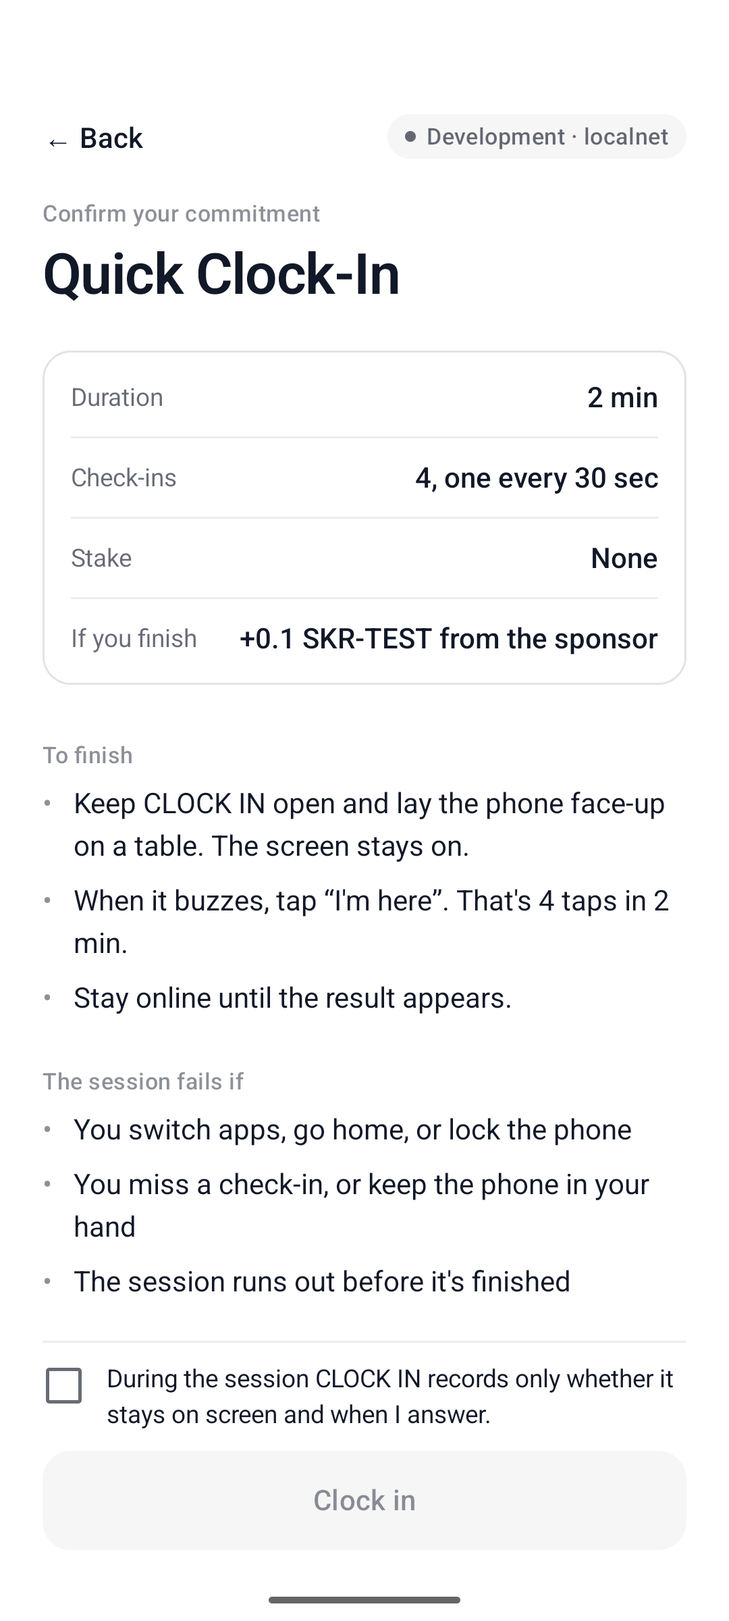
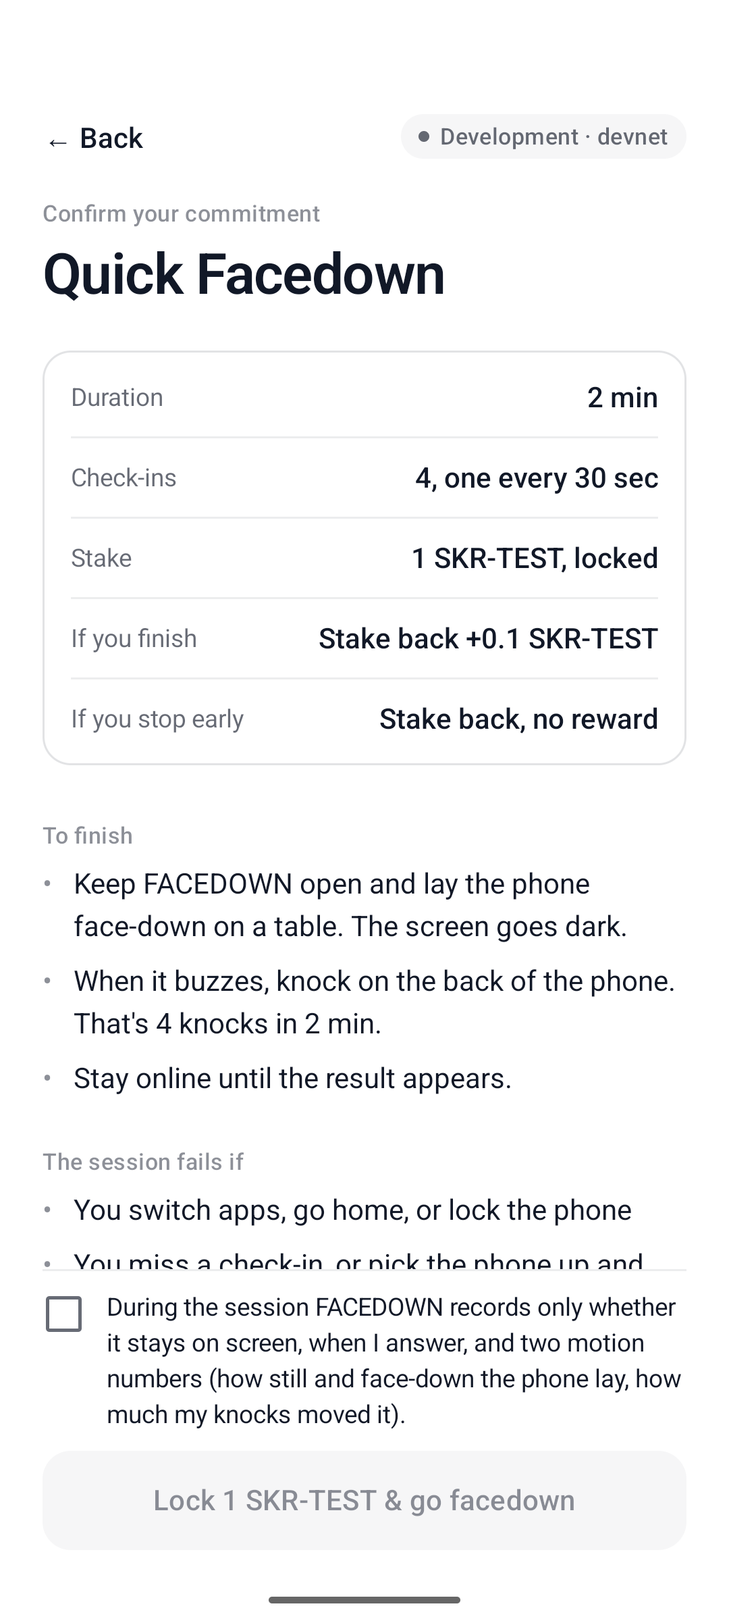
docs: FACEDOWN README and demo script; No-Loss confirm screen fix; new screenshots
- README: Seeker-proves-presence positioning, reviewer-free vs commitment apps, PRESENCE as the
  business, SKR sink (freeze burn), devnet proof for face-down, No-Loss refund and burn,
  roadmap (yield-funded No-Loss, ORE sponsor pools, Presence Model, Live Rooms) marked not built.
- Confirm screen: No-Loss no longer also shows the Free rows.

diff --git a/app/src/main/java/com/presence/ui/screens/MissionScreen.kt b/app/src/main/java/com/presence/ui/screens/MissionScreen.kt
@@ -66,7 +66,7 @@ fun MissionScreen(s: UiState, onBack: () -> Unit, onStart: () -> Unit) = Page {
             KeyValue("Duration", minutesLabel(m.durationSeconds))
             Hairline()
             KeyValue("Check-ins", "${m.requiredCheckpoints}, one every ${minutesLabel(m.checkpointIntervalSeconds)}")
-            if (!staked && m.reward.token > 0) {
+            if (!staked && !noLoss && m.reward.token > 0) {
                 Hairline()
                 KeyValue("Stake", "None")
                 Hairline()

diff --git a/backend/attest/evidence.py b/backend/attest/evidence.py
@@ -6,8 +6,8 @@ payload_i    = "{index}|{timestamp_ms}|{elapsed_ms}|{foreground 0/1}|{interactio
 root         = SHA256("PRESENCE/root/v1" | last_checkpoint_hash | witness_root)
 
 response_ms is how long the presence check was on screen before it was answered (-1 = not answered).
-still_pct is the share of the window the phone lay still (accelerometer), taps excluded; -1 = no sensor.
-touch_motion is the largest physical jolt (mm/s^2) the accelerometer felt at an "I'm here" tap; -1 = no
+still_pct is the share of the window the phone lay still and face-down (accelerometer), check-ins excluded; -1 = no sensor.
+touch_motion is the largest physical jolt (mm/s^2) of a check-in (a knock on the back, or a finger tap); -1 = no
 tap or no sensor. A finger moves the phone; an injected tap (script, AI agent) doesn't.
 
 `|` is the literal byte 0x7C; hashes are raw 32-byte digests. witness_root is 32 zero

diff --git a/README.md b/README.md
@@ -1,149 +1,156 @@
-# CLOCK IN, built on PRESENCE
+# FACEDOWN, built on PRESENCE
 
-**Focus you can prove, and that no script or AI agent can fake.**
+**Put it down. Prove it. Get paid.**
 
-Every Seeker owner knows the loop: you pick up the phone to do one thing and lose twenty minutes. CLOCK IN is a
-daily appointment with your own attention:
+Seeker is the only phone that can prove you were present: a hardware-bound identity (Seeker Genesis Token), a
+wallet in the OS, and sensors that can tell a person from a script. FACEDOWN uses that to make phone-free time
+something you can commit to, verify and get paid for, with no referee.
 
-1. **Book it and choose it.** Pick a daily time (the phone reminds you), a length (2 or 25 min), and **Free** (a
-   sponsor pays a small reward, nothing of yours at risk) or **Stake** SKR.
-2. **Put the phone down** face-up on a table. It buzzes once per window at an unpredictable moment. Tap *I'm here*.
-   The accelerometer feels that a **finger** touched the phone and that it **lay still** between check-ins.
-3. **Finish:** the session is attested on Solana; a staked stake comes back **plus up to 20%**, in the same
-   transaction. **Quit, switch apps, miss a check, or let a script tap for you:** not verified; a stake goes to the pool.
+1. **Book it.** Pick a daily time (the phone reminds you) and a length: 2 min, 25 min, or a **Facedown Hour** (60 min).
+2. **Choose what's at stake.** **Free** (a sponsor pays a small reward), **No-Loss** (lock SKR; you get it back
+   either way, only finishers earn) or **Stake** (finish for stake + up to 20% from the pool; quit and it feeds the pool).
+3. **Turn the phone face-down.** The screen goes black. It buzzes a few times at unpredictable moments; **knock on
+   the back** to answer. No pickup, no lit screen. The accelerometer proves the phone lay face-down and still, and
+   that each answer was a physical knock, not input injected by a script or an AI agent.
+4. **Finish.** The session is attested on Solana and paid in the same transaction. A streak builds; a **streak
+   freeze** (paid in SKR, half burned on-chain) covers a missed day. Today shows how many people are facedown right now.
 
 <p>
-<img src="screenshots/home.png" width="19%" alt="Today: length, Free or Stake, sponsor pool">
-<img src="screenshots/mission.png" width="19%" alt="Confirm: terms before any wallet prompt">
-<img src="screenshots/active.png" width="19%" alt="Active session: timer and a check-in when one is due">
-<img src="screenshots/receipt.png" width="19%" alt="Trust Receipt: stake back + bonus, on-chain QR">
-<img src="screenshots/rejected.png" width="19%" alt="Rejected: taps injected by a script, caught by the motion sensor">
+<img src="screenshots/home.png" width="19%" alt="Today: 2/25/60 min, Free | No-Loss | Stake">
+<img src="screenshots/mission.png" width="19%" alt="Confirm: No-Loss terms before any wallet prompt">
+<img src="screenshots/facedown.png" width="19%" alt="Face-down: the screen goes black while the session runs">
+<img src="screenshots/receipt.png" width="19%" alt="Receipt: human touch and phone-down verified, recorded on Solana">
+<img src="screenshots/progress.png" width="19%" alt="Progress: streak freeze bought, half burned">
 </p>
 
-**Demo video:** [`demo/clock-in-demo-2x.mp4`](demo/clock-in-demo-2x.mp4) (3 min at 2× speed): a staked session that
-finishes (stake back + bonus), then one that leaves the app (stake forfeited to the pool). Recorded on the emulator,
-with the app and wallet driven by `scripts/device_e2e.py`.
+*Screenshots: Android emulator against **devnet** with Solana Mobile's test wallet, **development mode** (Seeker
+eligibility bypassed and labeled). Face-down and knocks were driven through the emulator's virtual accelerometer.
+Rewards are SKR-TEST, a valueless test mint with SKR's 6 decimals.*
 
-*Screenshots: Android emulator with Solana Mobile's test wallet, local validator, **development mode** (Seeker
-eligibility bypassed and labeled). Rewards are SKR-TEST, a valueless test mint with SKR's 6 decimals.*
+## Why this, why now
+
+**The pain is real and people pay to fix it.** Blockers are too easy to undo in the moment, and they feel like
+deprivation. Commitment apps exist and charge for it, but they need a human or AI reviewer to check photo proof,
+and the money you forfeit goes to the company. **FACEDOWN needs neither: the phone proves it, and forfeits go to the
+people who finished** (or, in No-Loss, nothing is forfeited at all).
+
+**In a world of AI agents, proof that a human was here is the scarce thing.** Agents can now drive a phone (tap,
+type, approve) and farm anything that only checks taps. A motion signal separates human from agent-driven taps
+([arXiv 2609.02154](https://arxiv.org/abs/2609.02154)); FACEDOWN puts that signal inside a signed, hash-chained,
+on-chain process record. That's an anti-farming primitive, and Seeker is the phone that can carry it.
 
 ## Designed from the evidence
 
-Every product decision maps to a randomized trial or a paper, not a guess:
-
-| Finding | What CLOCK IN does |
+| Finding | What FACEDOWN does |
 |---|---|
-| Deposit programs were accepted by **13.7%** of people vs **90%** for reward programs; among people who'd accept either, deposits worked better (+13.2 pts). Halpern et al., [NEJM 2015](https://doi.org/10.1056/NEJMoa1414293), n = 2,538 | **Free first, stake later.** Sponsor-funded sessions are the default way in; staking is the upgrade for the committed. |
-| Appointments **more than doubled** uptake vs financial commitment devices, and most commitment-device takers lost their money. Derksen et al., [arXiv 2110.06876](https://arxiv.org/abs/2110.06876) | **Daily focus appointment** with a reminder; a missed appointment costs nothing. |
-| People who **chose their own** phone-reduction goal cut use by **26 min/day more** (73% larger) than people assigned one, same incentives. Sachdeva, Somasundaram & Sharma (IIM Udaipur, ISB), [Soc Sci Med 2026](https://doi.org/10.1016/j.socscimed.2026.119683) | You choose the length and whether to stake. |
-| A motion signal told **human from AI-agent** taps apart with 98.4% accuracy on a table. [arXiv 2609.02154](https://arxiv.org/abs/2609.02154); ZK motion humanness: zkSENSE, [arXiv 1911.07649](https://arxiv.org/abs/1911.07649) | **Physical evidence** in every checkpoint: each tap must move the phone, and the phone must lie still. |
-| Two weeks without mobile internet improved sustained attention and mental health; **91%** improved on at least one outcome. Castelo et al., [PNAS Nexus 2025](https://doi.org/10.1093/pnasnexus/pgaf017) | Why phone-down time is worth proving. |
-| Play-/move-to-earn economies collapse; in 9 of 12 NFT games traders lost money on average. [arXiv 2602.13882](https://arxiv.org/abs/2602.13882), [arXiv 2211.01000](https://arxiv.org/abs/2211.01000) | **No new token, no emissions.** Rewards come only from sponsors and forfeited stakes. |
+| Deposit programs were accepted by **13.7%** of people vs **90%** for reward programs; among people who'd accept either, deposits worked better (+13.2 pts). Halpern et al., [NEJM 2015](https://doi.org/10.1056/NEJMoa1414293), n = 2,538 | **Free first, No-Loss next, Stake for the committed.** |
+| Appointments **more than doubled** uptake vs financial commitment devices, and most commitment-device takers lost their money. Derksen et al., [arXiv 2110.06876](https://arxiv.org/abs/2110.06876) | **Daily facedown appointment** with a reminder; No-Loss so nobody has to lose money to commit. |
+| People who **chose their own** phone-reduction goal cut use by **26 min/day more** (73% larger) than people assigned one. Sachdeva, Somasundaram & Sharma (IIM Udaipur, ISB), [Soc Sci Med 2026](https://doi.org/10.1016/j.socscimed.2026.119683) | You choose the length and what's at stake. |
+| Two weeks without mobile internet improved sustained attention and mental health; **91%** improved on at least one outcome. Castelo et al., [PNAS Nexus 2025](https://doi.org/10.1093/pnasnexus/pgaf017) | Long stretches matter, so there is a **Facedown Hour**, not just a pomodoro. |
+| A motion signal told **human from AI-agent** taps apart with 98.4% accuracy on a table. [arXiv 2609.02154](https://arxiv.org/abs/2609.02154); zkSENSE, [arXiv 1911.07649](https://arxiv.org/abs/1911.07649) | **Knock check-ins + face-down stillness** in every checkpoint. |
+| Play-/move-to-earn economies collapse; in 9 of 12 NFT games traders lost money on average. [arXiv 2602.13882](https://arxiv.org/abs/2602.13882) | **No new token, no emissions.** Rewards come only from sponsors and forfeited stakes. |
 
-## Why nobody has done this before
+## What a cheater would try
 
-Focus apps run on a **local timer**. Anyone can fake one, so nobody can put money on them. Commitment contracts work
-(in a randomized trial, smokers offered a deposit contract were 3 points more likely to quit, effects lasting a year,
-[Giné, Karlan & Zinman](https://poverty-action.org/publication/put-your-money-where-your-butt)), but only when
-someone can check the outcome.
-
-**PRESENCE is that check, with no referee:**
-
-| What a cheater would try | Why it fails |
+| Attempt | Why it fails |
 |---|---|
 | Fake the timer / fast-forward | The **server** times the session from its own clock. Checkpoints that arrive early are rejected. |
-| Leave the app and come back | Every checkpoint records whether the session stayed in the foreground. One miss forfeits the stake. |
-| Script the taps | Checks appear at random moments; answer times that are instant or metronome-steady are flagged `AUTOMATION_DETECTED`. |
-| Let an AI phone agent tap for you | Injected taps don't move the phone. Each checkpoint carries the accelerometer jolt of the tap; production rejects taps no finger made (`AUTOMATION_DETECTED`). Reproduced on the emulator with adb-injected taps. |
+| Use the phone during the session | Leaving the app is recorded in every checkpoint; one miss fails the session. Picking the phone up breaks face-down stillness. |
+| Let a script or an AI phone agent answer | Answers are knocks felt by the accelerometer (or a finger tap's jolt). Injected input moves nothing: production rejects it (`AUTOMATION_DETECTED`). Reproduced on the emulator with adb-injected taps. |
 | Replay or forge evidence | Checkpoints form a hash chain signed by a per-session Android Keystore key bound into the wallet's sign-in. |
-| Farm the bonus pool with many wallets | One claim per **Seeker Genesis Token** per mission per day: a device, not a wallet. |
+| Farm sponsor pools with many wallets | One claim per **Seeker Genesis Token** per mission per day: a device, not a wallet. |
+| Swap the stake transaction in the wallet | ATTEST submits the stake only if it moves exactly what was issued; wallets may add priority fees, nothing else. |
 | Claim the payout twice | Payout and attestation are one transaction on a PDA that can be created once. |
 
-This builds on a security idea formalized in 2026: real-time human attention is a scarce resource that can't be
-parallelized, so time-bound, identity-bound challenges make sustaining *s* fake identities cost grow linearly with *s*
-([Human Challenge Oracle, arXiv 2601.03923](https://arxiv.org/abs/2601.03923)). Seeker adds what that paper's
-browser setting lacks: a hardware-bound identity per device.
-
-## Why it fits CLOCK IN
-
-- **Stickiness:** a daily appointment, streak, league and money at stake. Behavioural research suggests appointments
-  beat open-ended commitments ([arXiv 2110.06876](https://arxiv.org/abs/2110.06876)), so each session is a scheduled
-  clock-in rather than a vague goal.
-- **Seeker-native:** the Seeker Genesis Token makes the pool Sybil-resistant per device, and Mobile Wallet Adapter
-  signs the sign-in and the stake in one prompt.
-- **SKR as the core mechanic, not decoration:** you stake SKR, finishers earn SKR, quitters fund the pool, and
-  sponsors can top it up.
-
-## How SKR moves
+## SKR: a reason to hold and spend it, not just pass it through
 
 ```mermaid
 flowchart LR
-    U[You] -- stake 1 SKR, signed in MWA --> P[(Pool account)]
-    S[Sponsor] -- optional top-up --> P
-    U -- 2 min focus, 4 presence checks --> A[ATTEST engine]
+    U[You] -- Stake / No-Loss lock, signed in MWA --> P[(Pool account)]
+    S[Sponsor] -- funds Free + No-Loss rewards --> P
+    U -- face-down session, knock check-ins --> A[ATTEST engine]
     A -- verified: one tx --> C[(Solana)]
-    C -- DailyAttestation + stake back + 20% bonus --> U
-    Q[Quitter] -. forfeited stake .-> P
+    C -- attestation + stake back + reward --> U
+    Q[Quitter] -. Stake mode: forfeited .-> P
+    Q -. No-Loss: refunded .-> U
+    U -- streak freeze, 2 SKR --> F{{half burned, half revenue}}
 ```
 
-- **Stake.** ATTEST builds the transfer; the wallet signs it together with the sign-in message; ATTEST submits it
-  only if it moves exactly what was issued (same payer, accounts, mint and amount). Wallets may add priority-fee
-  instructions, as Solflare does; any other change is refused.
-- **Pay.** On success, `record_attestation` and a `TransferChecked` of *stake + bonus* from the pool go in **one
-  transaction**. The bonus is capped by what the pool holds.
-- **Forfeit.** Rejected sessions, and sessions abandoned until they expire, leave their stake in the pool.
-- **Real SKR** is `SKRbvo6Gf7GondiT3BbTfuRDPqLWei4j2Qy2NPGZhW3` (classic SPL Token, 6 decimals). We can't mint it,
-  which is why everything is transfer-based. Pointing `REWARD_MINT` at it is the mainnet switch.
+- **Stake** (opt-in): finishers get stake + up to 20% from the pool, capped by what the pool holds. If most people
+  finish, the pool runs low and the bonus shrinks; we show the live pool so nobody is promised a bonus that isn't there.
+- **No-Loss** (default for money): the stake is locked and returned either way (refund on failure; abandoned sessions
+  are refunded after they expire). Finishing earns the sponsor reward and keeps the streak. Nobody loses principal.
+- **Streak freeze** (a sink): 2 SKR, **half burned on-chain** (`BurnChecked`), half protocol revenue.
+- **Real SKR** is `SKRbvo6Gf7GondiT3BbTfuRDPqLWei4j2Qy2NPGZhW3` (6 decimals). Everything is transfer-based, so
+  pointing `REWARD_MINT` at it is the mainnet switch.
 
-**Devnet (live):**
+## Devnet proof (every row is a real transaction)
 
 | | |
 |---|---|
 | Program | `CFZsFPtvwo5KDenV3qgorroaRmT7NuYsfPnd4avFS2cT` |
 | SKR_TEST mint (6 decimals) | `GGqPuCZvbfmVuaUDU5AHqSxrMSbM9L3qJMP1Q7p7myRU` |
-| Example: 2-min session attested, 1 SKR-TEST stake + 0.2 bonus paid in one tx | [3nPy…FdA](https://explorer.solana.com/tx/3nPyCXQkQ8AFKm6pAXSJYpTpLeAHwj9J98xfZ5sKBEJ4Vmpo5q8bvSnCqyTvEXB3yna5Ua9VLXRK7FXtnUxezFdA?cluster=devnet) |
-| Real phone + Solflare: stake of 1 SKR-TEST | [yKF8…qnt](https://explorer.solana.com/tx/yKF8g4evQLErYHiELKfR5sHHPyyFq1nkGPZSG4bLV6vZ4tfsgf4o3TX2f3Jz7pfzQkhMjwzn6Ce16WWLBZn8qnt?cluster=devnet) |
+| **Face-down session** (emulator): 4/4 knocks, human touch + phone-down verified, attestation + sponsor reward | [2R1V…xiit](https://explorer.solana.com/tx/2R1VrBwdbkXkpfZ1eQLRAkM6BNMXryes7u3KAQs689QRw6PBNw1PUxzTRz5PfhatMRPSHy5JRxnHwFvEgNiWxiit?cluster=devnet) |
+| **No-Loss**: quit mid-session, stake refunded | [a6Em…iE1](https://explorer.solana.com/tx/a6Em7BAUah1osjjuJUWzi9JHAqsycLuAtyhthDXUVZwG1jJ5q5gTr4ZzsJioWiA1pAA4eXRRXVA2kiF1cjpiiE1?cluster=devnet) |
+| **Streak freeze**: 2 SKR-TEST paid | [7qc5…R9r](https://explorer.solana.com/tx/7qc5aKgJ76qzy8idtPqSxtrfDbtcjqbPcpJ5rLLbzn1pHbB4pJGBsPS5QQkNMscSee4wBpkJCZvkK2ED25KeR9r?cluster=devnet), 1 SKR-TEST **burned** [2FDV…aMf](https://explorer.solana.com/tx/2FDVJdb2azN4pAD3cPEjn3bdzXCDrvXvaV586kMoDzYBkkxt1xTZngBqvBxwdumNYdTMDKTifTvWPMDrwAXESaMf?cluster=devnet) |
+| Real phone + Solflare (pre-face-down build): stake of 1 SKR-TEST | [yKF8…qnt](https://explorer.solana.com/tx/yKF8g4evQLErYHiELKfR5sHHPyyFq1nkGPZSG4bLV6vZ4tfsgf4o3TX2f3Jz7pfzQkhMjwzn6Ce16WWLBZn8qnt?cluster=devnet) |
 | Real phone + Solflare: finished, attestation + stake back + 0.2 bonus | [5vbS…i6Nd](https://explorer.solana.com/tx/5vbSaLXNDUZ1Q2zMqKBrV1n4a5wEqiPRSficKMqeckktqczxPraxxrPtcLgVfx2rgm45YNAcsaMzLADK9KmHi6Nd?cluster=devnet) |
 | Real phone + Solflare: free session, attestation + 0.1 sponsor reward | [2gtc…obNu](https://explorer.solana.com/tx/2gtcaWDPiB3uanDdia8iP6n96G6oTDnb4VjMJjWT2JAzRytcQh8cKB3wbSj16Rvi6yepuVWqCiZnKKEERPrZobNu?cluster=devnet) |
 | Real phone + Solflare: left the app, stake forfeited to the pool | [3RAz…3aPk](https://explorer.solana.com/tx/3RAz2dQsauyHM2eDqNvRk2utexRqNRYBkEhw7pR1Zdxi7DMWy9PCo3DAqLer56CP3cvNnJmaLEpxirAo4azi3aPk?cluster=devnet) |
 
-## The engine: PRESENCE
+## The business: FACEDOWN is the first app, PRESENCE is the company
 
-CLOCK IN is the first product on **PRESENCE**, a general engine for "prove a person actually did this process":
+- **Consumer (FACEDOWN):** sponsor-funded Free and No-Loss tiers for reach; streak freezes as an SKR sink and
+  revenue; later a Pro tier and a small rake on opt-in Stake pools (where legal).
+- **Infrastructure (PRESENCE):** "a human did this process on this device", verifiable on-chain by anyone through
+  `verifyPresence()` ([docs/integration.md](docs/integration.md)). Every airdrop is a Sybil problem and every quest
+  program is a farming problem; PRESENCE sells proof-of-human-process per attestation to airdrop issuers, quest
+  platforms and Seeker campaigns ("5 verified facedown sessions" is a quest a bot can't farm).
+- **Sponsors:** parents funding a student's pool, companies funding employees' focus hours, protocols funding
+  campaigns. Sponsor deposits are verified on-chain before they're credited.
+
+## The engine: PRESENCE
 
 - **Client collects, ATTEST decides, chain anchors.** The app never sends `verified`, `reward` or `assurance`.
 - **Evidence chain.** `checkpoint_i = SHA256("PRESENCE/cp/v3" | prev | "{i}|{ts}|{elapsed}|{fg}|{taps}|{response_ms}|{still_pct}|{touch_motion}" | nonce)`,
   identical in Kotlin and Python (shared golden vectors).
-- **Privacy.** Per window: a foreground flag, a tap count, one answer time and two motion summaries (how still the
-  phone lay, how much the tap moved it). Raw sensor data stays on the phone. No location, contacts or background tracking. Only a 32-byte root goes on-chain.
+- **Privacy.** Per window: a foreground flag, an answer count, one answer time and two motion summaries (how much of
+  the time the phone lay still and face-down, how hard the knock was). Raw sensor data stays on the phone. No
+  location, contacts, camera or microphone. Only a 32-byte root goes on-chain.
 - **Assurance levels.** P1 = wallet sign-in + Seeker Genesis Token, P2 = P1 + process evidence. P3 (witnesses) and
   P4 (hardware attestation) are designed, not built.
-- **`verifyPresence()` SDK.** Any app can check an attestation on Solana without trusting our server
-  ([docs/integration.md](docs/integration.md)).
-
-The same engine extends to verified field work (health-worker visits, cold-chain handovers). That's the roadmap,
-not this submission: those users don't carry Seekers yet, and those claims need place-binding we haven't built.
 
 Docs: [architecture](docs/architecture.md) · [trust model](docs/trust-model.md) ·
 [evidence](docs/evidence-model.md) · [security](docs/security.md) · [missions](docs/mission-policy.md) ·
 [integration](docs/integration.md) · [demo script](docs/demo.md)
 
+## Roadmap (designed, not built)
+
+- **Yield-funded No-Loss.** On mainnet, locked stakes can earn yield (e.g. a USDC/SOL lending vault) that funds the
+  finisher reward instead of sponsors. Not built: no such vault on devnet to test against.
+- **ORE sponsor pools ("your focus fills an ORE jar").** A mission whose reward mint is ORE, funded by an ORE
+  sponsor, so finishers accumulate ORE as savings. We deliberately do *not* deploy users' SOL into ORE mining rounds
+  on their behalf: that is a game of chance and would undo No-Loss. Not built: ORE (`oreV3EG1i9BEgiAJ8b177Z2S2rMarzak4NMv1kULvWv`)
+  runs on mainnet only, and per-mission reward mints need a settlement change.
+- **Presence Model.** Replace the hand-tuned knock/stillness thresholds with a small on-device classifier trained on
+  real session traces (opt-in). Not built: we don't have the data yet, and a model without data would be theatre.
+- **Live Rooms.** Friends, a college or a company facedown together. Today there is one global live count.
+- **Guardian quorum.** Several attestors staking SKR instead of one operator ([trust-model.md](docs/trust-model.md)).
+
 ## Honest limitations
 
-- **Tested on a real Android phone, not a Seeker.** On a realme phone with Solflare on devnet we ran a staked session
-  (stake back + bonus), a free one (sponsor reward) and one that left the app (stake forfeited), all with real
-  transactions. Seeker Genesis Token verification is implemented and unit-tested but not run on a Seeker; every run
-  used development mode, which is labeled on every screen and receipt.
-- **This phone, not you.** It proves *this* device stayed on the session with a person answering. It can't stop you
-  using a second phone.
-- **Heuristics, not proof.** Automation detection catches naive scripts; a script with human-like random delays can pass.
-- **Motion thresholds are uncalibrated.** The finger-tap and stillness rules work on synthetic traces and catch
-  adb-injected taps on the emulator, but they haven't been tuned on real phones yet. A modified app could also fake
-  the two numbers; only hardware attestation (P4) closes that.
-- **Indian law.** Paying finishers a bonus out of quitters' stakes may count as an "online money game" under India's
-  online gaming law (2025). The Free tier pays only from sponsors. Staking needs legal review before a public launch in India.
-- **Single operator.** One attestor key and one ATTEST server. A Guardian quorum staking SKR is designed, not built
-  ([trust-model.md](docs/trust-model.md)).
+- **Face-down was verified on the emulator, not yet on a real phone.** Knocks and face-down came from the
+  emulator's virtual accelerometer. The earlier face-up build ran end to end on a real realme phone with Solflare on
+  devnet (table above). Seeker Genesis Token verification is implemented and unit-tested but not run on a Seeker.
+- **Thresholds are uncalibrated.** On a real phone, injected taps still read 20–90 mm/s² of noise (one 734 outlier);
+  the human-touch threshold is 150 and knocks register above 350. They need tuning with real knocks on several phones.
+- **This phone, not you.** It proves *this* device lay face-down with a person answering. It can't stop you using a
+  second phone. In No-Loss you only cheat yourself; in sponsored pools the Genesis Token caps it to one device.
+- **Signals, not proof.** A modified app could fabricate the motion numbers; only hardware attestation (P4) closes that.
+- **Indian law.** Paying finishers out of quitters' stakes (Stake mode) may count as an "online money game" under
+  India's 2025 online gaming law. Free and No-Loss pay only from sponsors and never take principal. Stake mode needs
+  legal review before a public launch in India.
+- **Single operator.** One attestor key and one ATTEST server.
 - **Test tokens only.** Devnet and localnet use SKR-TEST and a dev-only faucet, which the server refuses on mainnet.
 
 ## Run it
@@ -158,14 +165,15 @@ scripts/dev_stack.sh                 # validator + program + SKR_TEST pools + AT
 Install Solana Mobile's `fakewallet-v1-debug.apk`
 ([MWA releases](https://github.com/solana-mobile/mobile-wallet-adapter/releases)) on the emulator. New test wallets
 are funded by the dev faucet on connect. For devnet: `scripts/devnet_setup.sh`, then `scripts/fund_pool.sh`.
+On the emulator, `adb emu sensor set acceleration 0:0:-9.81` turns the phone face-down.
 
 ## Tests
 
 ```bash
-cd backend && uv run pytest -q                 # 39 tests: protocol, replay, policy, physical evidence, stakes, wallet edits, forfeits, pools
+cd backend && uv run pytest -q                 # 43 tests: protocol, replay, policy, physical evidence, stakes, No-Loss, freezes, pools
 scripts/e2e_localnet.sh                        # real chain: deposit, stake round trip, forged stake refused, payout, SDK
 anchor test --validator legacy                 # program: attestor auth, day range, claim index, streak, double settlement
-./gradlew :app:testDebugUnitTest               # Kotlin evidence chain = Python golden vectors; tap/stillness detector
+./gradlew :app:testDebugUnitTest               # evidence chain = Python golden vectors; knock / face-down / stillness detector
 python3 scripts/device_e2e.py <adb-serial> happy free leave   # drives the real app + wallet on a device/emulator
 ATTEST_ENFORCE_PHYSICAL=true scripts/dev_stack.sh   # then `device_e2e.py emulator-5554 free`: injected taps are rejected
 ```

diff --git a/docs/demo.md b/docs/demo.md
@@ -1,20 +1,22 @@
-# Demo script (about 3 minutes)
+# Demo script (about 3 minutes, on a real phone held by a person)
 
-Setup: `scripts/dev_stack.sh` (local validator, program, SKR_TEST pools seeded by a sponsor wallet, ATTEST in
-development mode), an emulator or phone with Solana Mobile's `fakewallet-v1-debug.apk`, and the PRESENCE APK.
+Setup: the devnet ATTEST server (`.devnet/attest.env` + `ATTEST_DEV_MODE=true`), the phone on USB with
+`adb reverse tcp:8787 tcp:8787`, the app built with `-Ppresence.backendUrl=http://127.0.0.1:8787`, and a wallet
+(Solflare on devnet, backed up, or Solana Mobile's test wallet). Film the phone and a table.
 
 | # | Show | Say |
 |---|---|---|
-| 1 | Home: passport, streak, Clock In cards with pool sizes | "Every Seeker owner knows the loop: pick up the phone for one thing, lose twenty minutes." |
-| 2 | Connect wallet → MWA authorize | "New test wallets get test SKR from a dev-only faucet." |
-| 3 | Quick Clock-In → rules, guarantees, consent → *Stake 1 & clock in* | "Skin in the game: finish and you get it back plus 20%. Quit and it funds everyone who finished." |
-| 4 | Wallet: sign message, sign transaction | "One wallet session signs the sign-in and the stake; the server only submits the exact stake it issued." |
-| 5 | Session: ring timer, evidence blocks sealing, phone buzzes → *I'm here* | "Focus apps run on a local timer, so you can't put money on them. Here the server keeps time, and checks for a human at random moments." |
-| 6 | Receipt: VERIFIED, *1 SKR-TEST stake back + 0.2 bonus*, QR | "Attestation and payout are one Solana transaction. Scan it." |
-| 7 | Second run: leave the app → NOT VERIFIED, *your stake went to the pool* | "Quitters fund finishers. That's the whole economy." |
-| 8 | `GET /sponsor/pools` or the pool line on Home grows | "The pool is real tokens in a real account." |
+| 1 | Today: *Put it down. Prove it.*, 2 / 25 / 60 min, Free / No-Loss / Stake | "Seeker is the only phone that can prove you were present. FACEDOWN turns phone-free time into something you can commit to and get paid for." |
+| 2 | Pick 2 min + No-Loss → confirm screen | "No-Loss: you lock SKR and get it back either way. Finish and a sponsor pays you. Nobody loses principal." |
+| 3 | Wallet: approve sign-in and the lock | "One wallet session signs the sign-in and the stake. The server only submits the stake it issued." |
+| 4 | Countdown → **turn the phone face-down on the table**: the screen goes black | "No lit screen, no pickup. The accelerometer proves it's face-down and still." |
+| 5 | It buzzes → **knock on the back** (show your hand) | "A knock answers the check-in. A script or an AI agent can tap a screen; it can't knock on a table." |
+| 6 | Pick up after the session → receipt: human touch + phone-down verified, recorded on Solana, QR | "Attestation and payout are one Solana transaction. Scan it." |
+| 7 | Progress → *Buy a streak freeze* → toast "1 SKR-TEST burned" | "Streak freezes cost SKR and half is burned on-chain: a real SKR sink." |
+| 8 | Second run with Stake: leave the app → *stake went to the pool* | "Stake mode is for the committed: quit and it funds everyone who finished." |
 
-Say plainly on camera: development mode (this device isn't a Seeker, so Seeker eligibility is bypassed and labeled);
-SKR-TEST is a valueless test mint. The mainnet switch is pointing `REWARD_MINT` at SKR.
+Say plainly on camera: development mode (this phone isn't a Seeker, so Seeker eligibility is bypassed and labeled);
+SKR-TEST is a valueless test mint; the mainnet switch is pointing `REWARD_MINT` at SKR.
 
-Automated version on a USB device or emulator: `python3 scripts/device_e2e.py <adb-serial> happy leave`
+Automated version (emulator: `adb emu sensor set acceleration 0:0:-9.81` is face-down):
+`python3 scripts/device_e2e.py <adb-serial> happy free leave`
